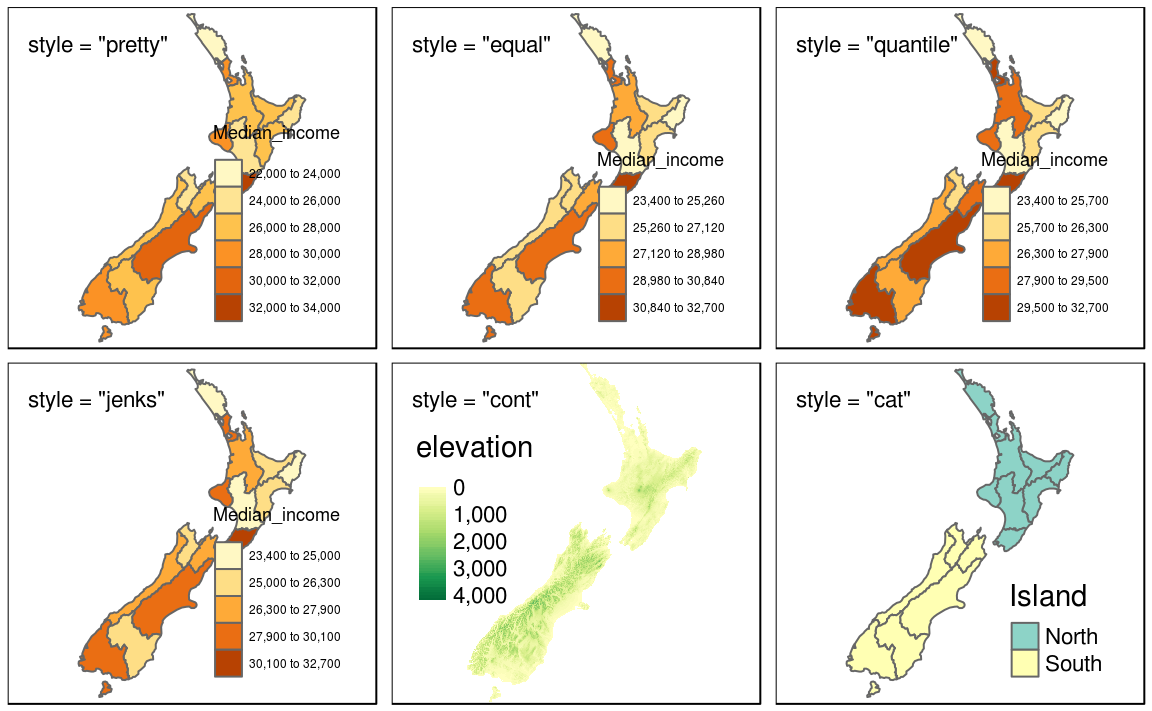
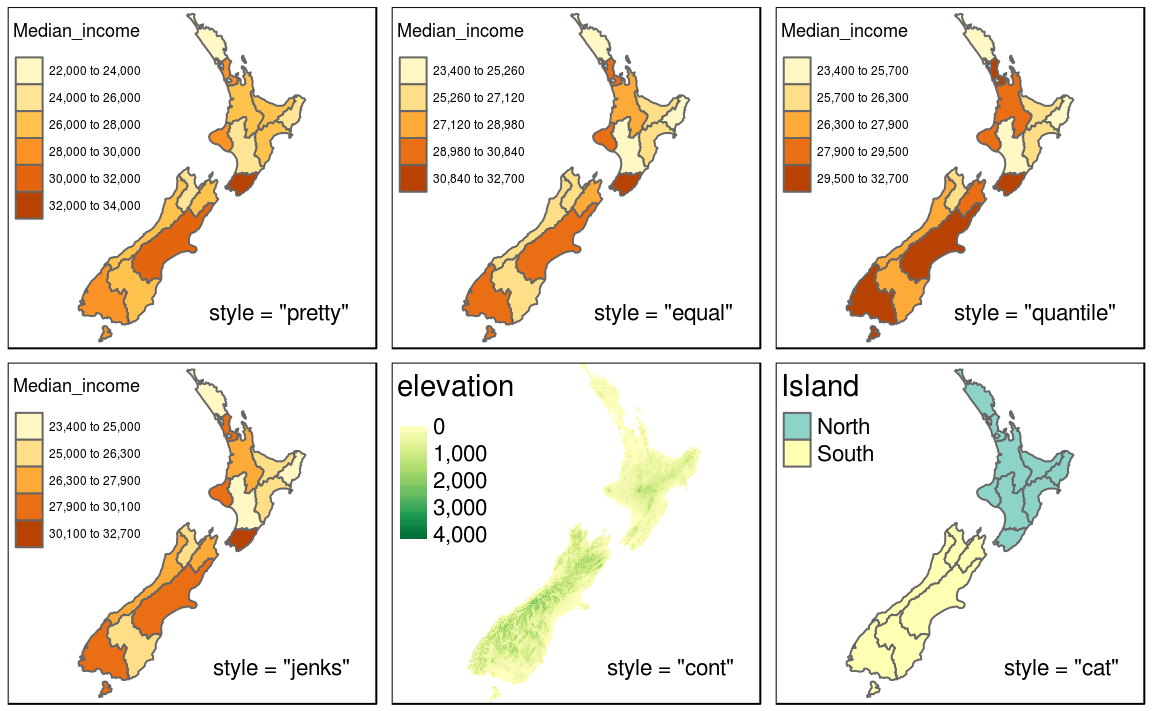
Updating book (3148)

diff --git a/adv-map.html b/adv-map.html
@@ -516,7 +516,6 @@ Figure 9.5: Illustration of settings that affect color settings. The results sho
 <li><code>style = cont</code> (and <code>order</code>) present a large number of colors over continuous color field, and are particularly suited for continuous rasters (<code>order</code> can help visualise skewed distributions)</li>
 <li><code>style = cat</code> was designed to represent categorical values and assures that each category receives a unique color. <!-- references for more info --></li>
 </ul>
-<!-- Is there a way to improve the legends, so far they are not really appealaing -->
 <div class="figure" style="text-align: center"><span id="fig:break-styles"></span>
 <img src="figures/break-styles-1.png" alt="Illustration of different binning methods set using the style argument in tmap." width="576" />
 <p class="caption">

diff --git a/main.md b/main.md
@@ -275,7 +275,7 @@ leaflet() %>%
 ```
 
 <div class="figure" style="text-align: center">
-preservef423b3d146833280
+preservea647435e6d29e9b8
 <p class="caption">(\#fig:interactive)Where the authors are from. The basemap is a tiled image of the Earth at Night provided by NASA. Interact with the online version at robinlovelace.net/geocompr, for example by zooming-in and clicking on the popups.</p>
 </div>
 
@@ -3115,7 +3115,7 @@ any(st_touches(cycle_hire, cycle_hire_osm, sparse = FALSE))
 
 
 <div class="figure" style="text-align: center">
-preserveafd5d13d8a007d7b
+preserve4c04614a6f33884f
 <p class="caption">(\#fig:cycle-hire)The spatial distribution of cycle hire points in London based on official data (blue) and OpenStreetMap data (red).</p>
 </div>
 
@@ -6002,7 +6002,7 @@ The result of this code, visualized in Figure \@ref(fig:cycleways), identifies r
 Although other routes between zones are likely to be used --- in reality people do not travel to zone centroids or always use the shortest route algorithm for a particular mode --- the results demonstrate routes along which cycle paths could be prioritized.
 
 <div class="figure" style="text-align: center">
-preserve478ed8eaa91597e1
+preserve26828aaa77f2aca7
 <p class="caption">(\#fig:cycleways)Potential routes along which to prioritise cycle infrastructure in Bristol, based on access key rail stations (red dots) and routes with many short car journeys (north of Bristol surrounding Stoke Bradley). Line thickness is proportional to number of trips.</p>
 </div>
 
@@ -6618,7 +6618,7 @@ result = sum(reclass)
 For instance, a score greater than 9 might be a suitable threshold indicating raster cells where a bike shop could be placed (Figure \@ref(fig:bikeshop-berlin)).
 
 <div class="figure" style="text-align: center">
-preserve62352fd215a0951e
+preserveedbf19d7e305cfb3
 <p class="caption">(\#fig:bikeshop-berlin)Suitable areas (i.e. raster cells with a score > 9) in accordance with our hypothetical survey for bike stores in Berlin.</p>
 </div>
 
@@ -6975,7 +6975,6 @@ Six of the most useful break styles are illustrated in Figure \@ref(fig:break-st
 - `style = cat` was designed to represent categorical values and assures that each category receives a unique color.
 <!-- references for more info -->
 
-<!-- Is there a way to improve the legends, so far they are not really appealaing -->
 <div class="figure" style="text-align: center">
 <img src="figures/break-styles-1.png" alt="Illustration of different binning methods set using the style argument in tmap." width="576" />
 <p class="caption">(\#fig:break-styles)Illustration of different binning methods set using the style argument in tmap.</p>
@@ -7325,7 +7324,7 @@ mapview::mapview(nz)
 ```
 
 <div class="figure" style="text-align: center">
-preservec178861e1c4821ef
+preserve079b4b437f52ad82
 <p class="caption">(\#fig:mapview)Illustration of mapview in action.</p>
 </div>
 
